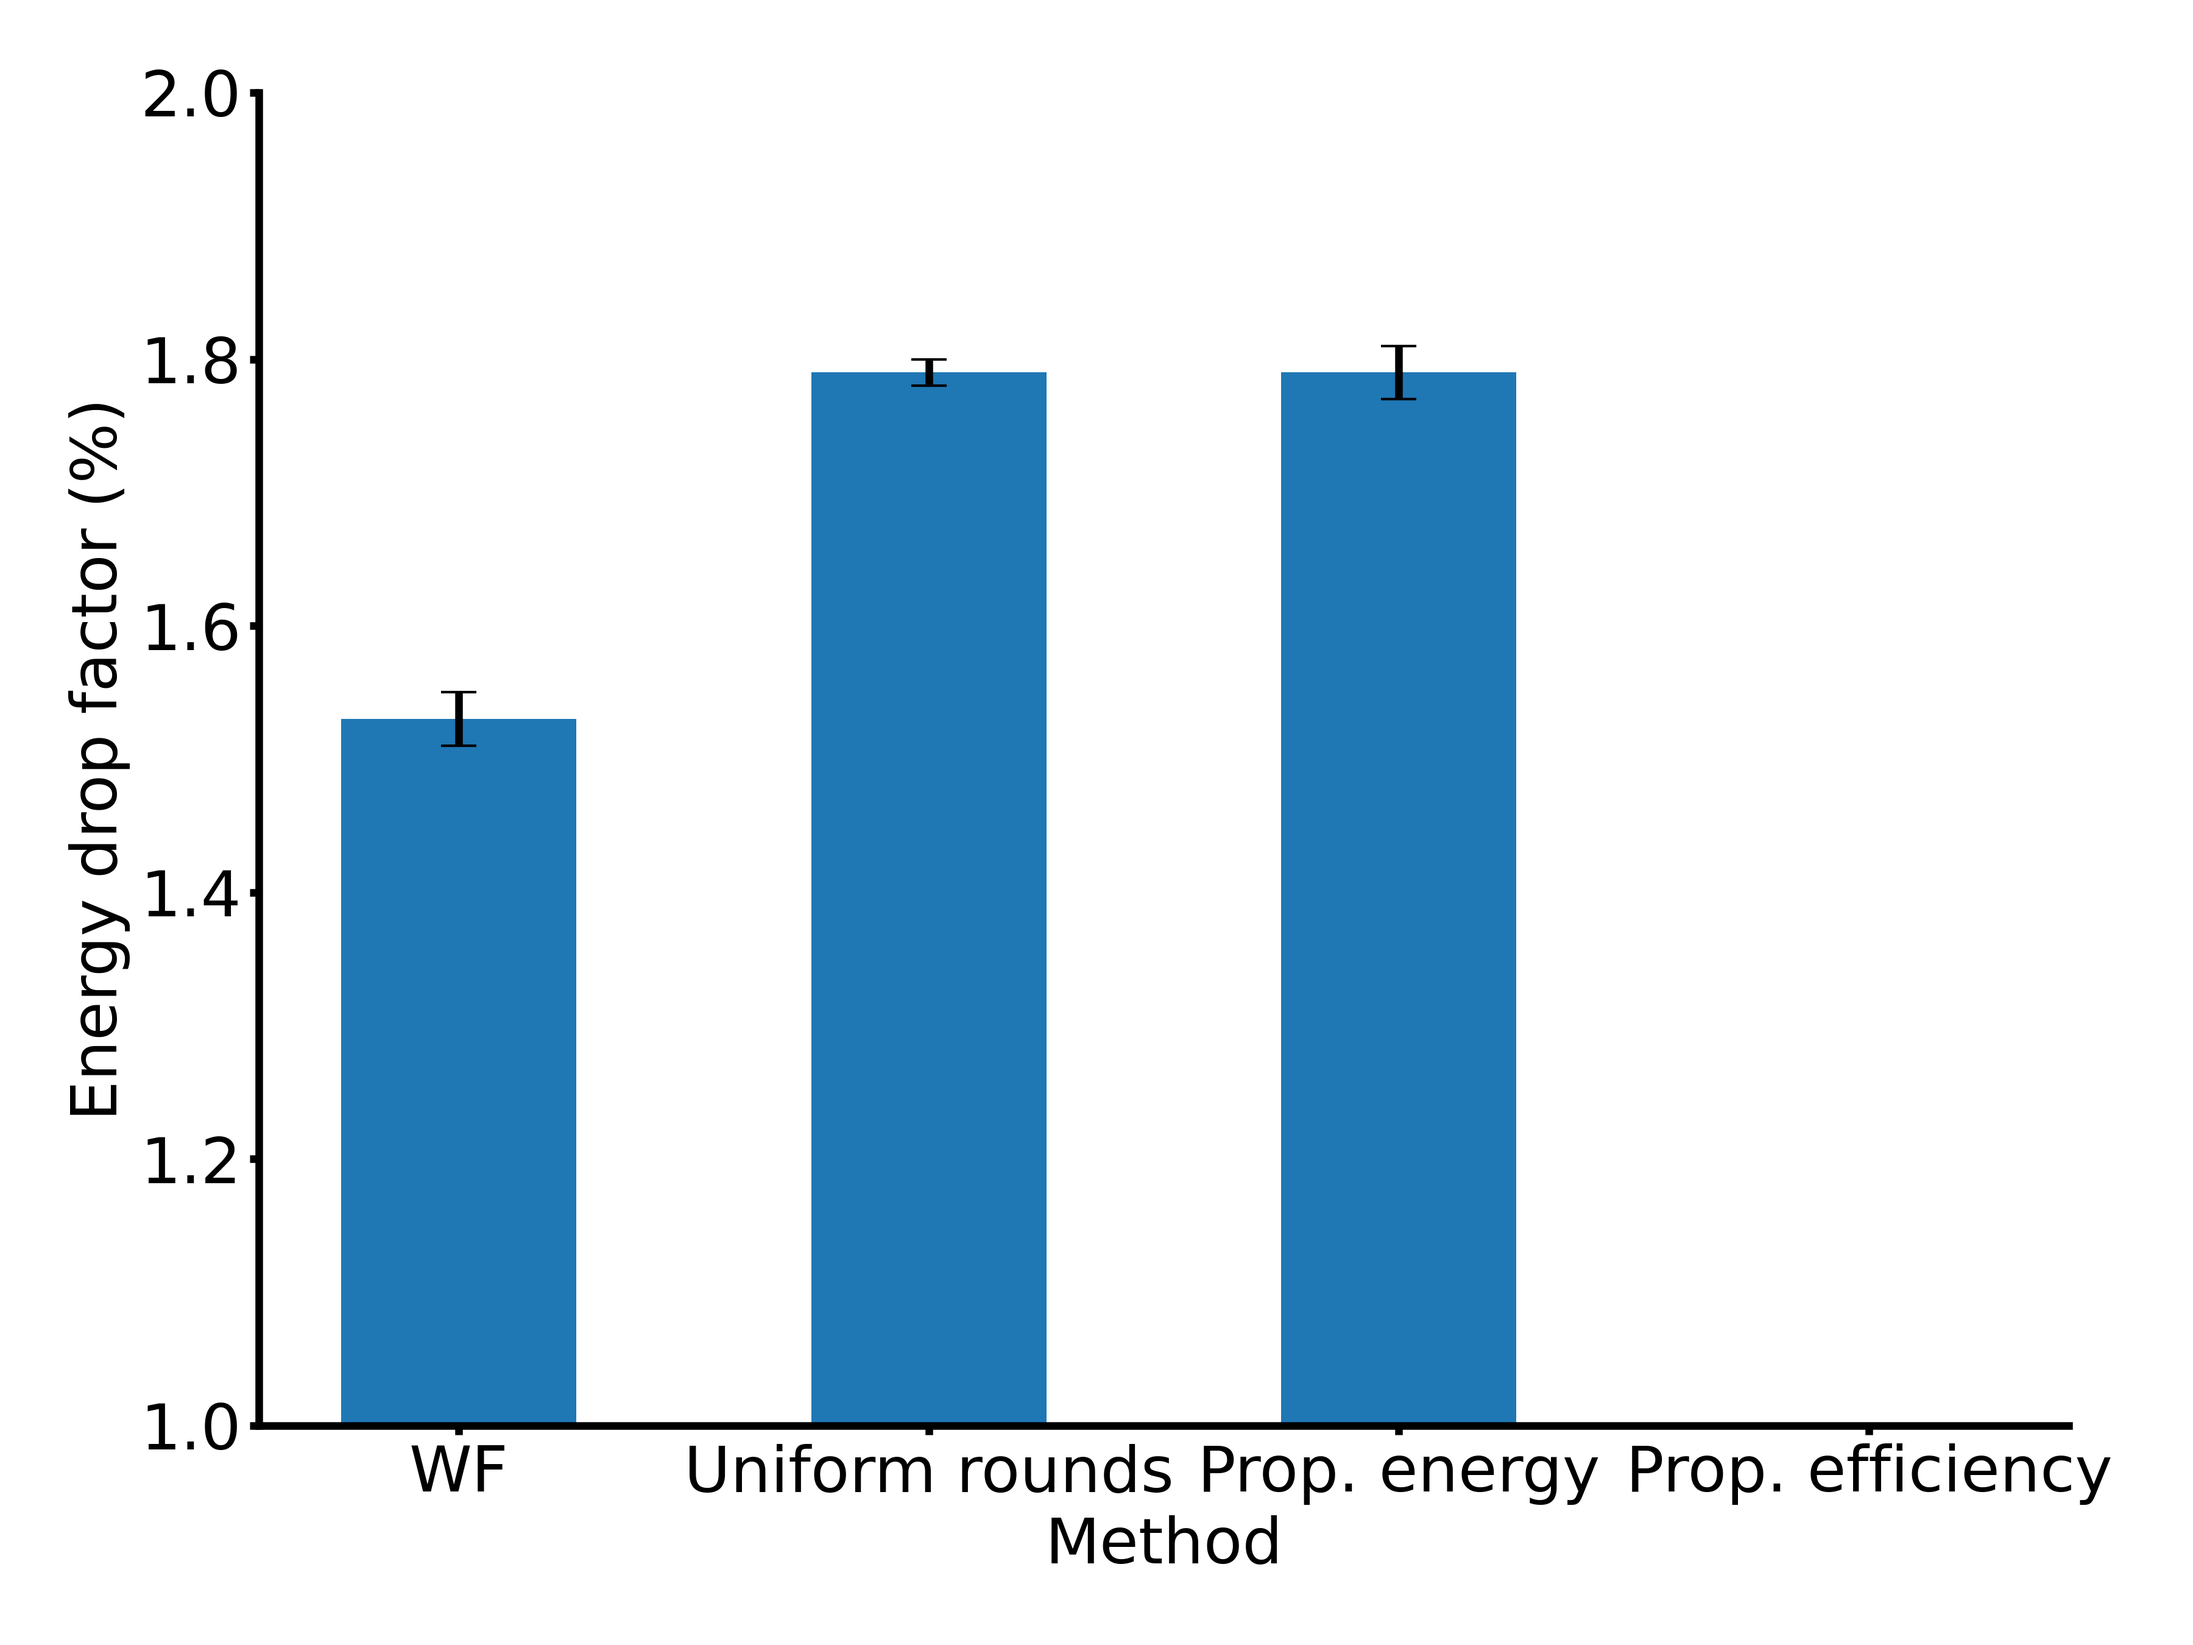
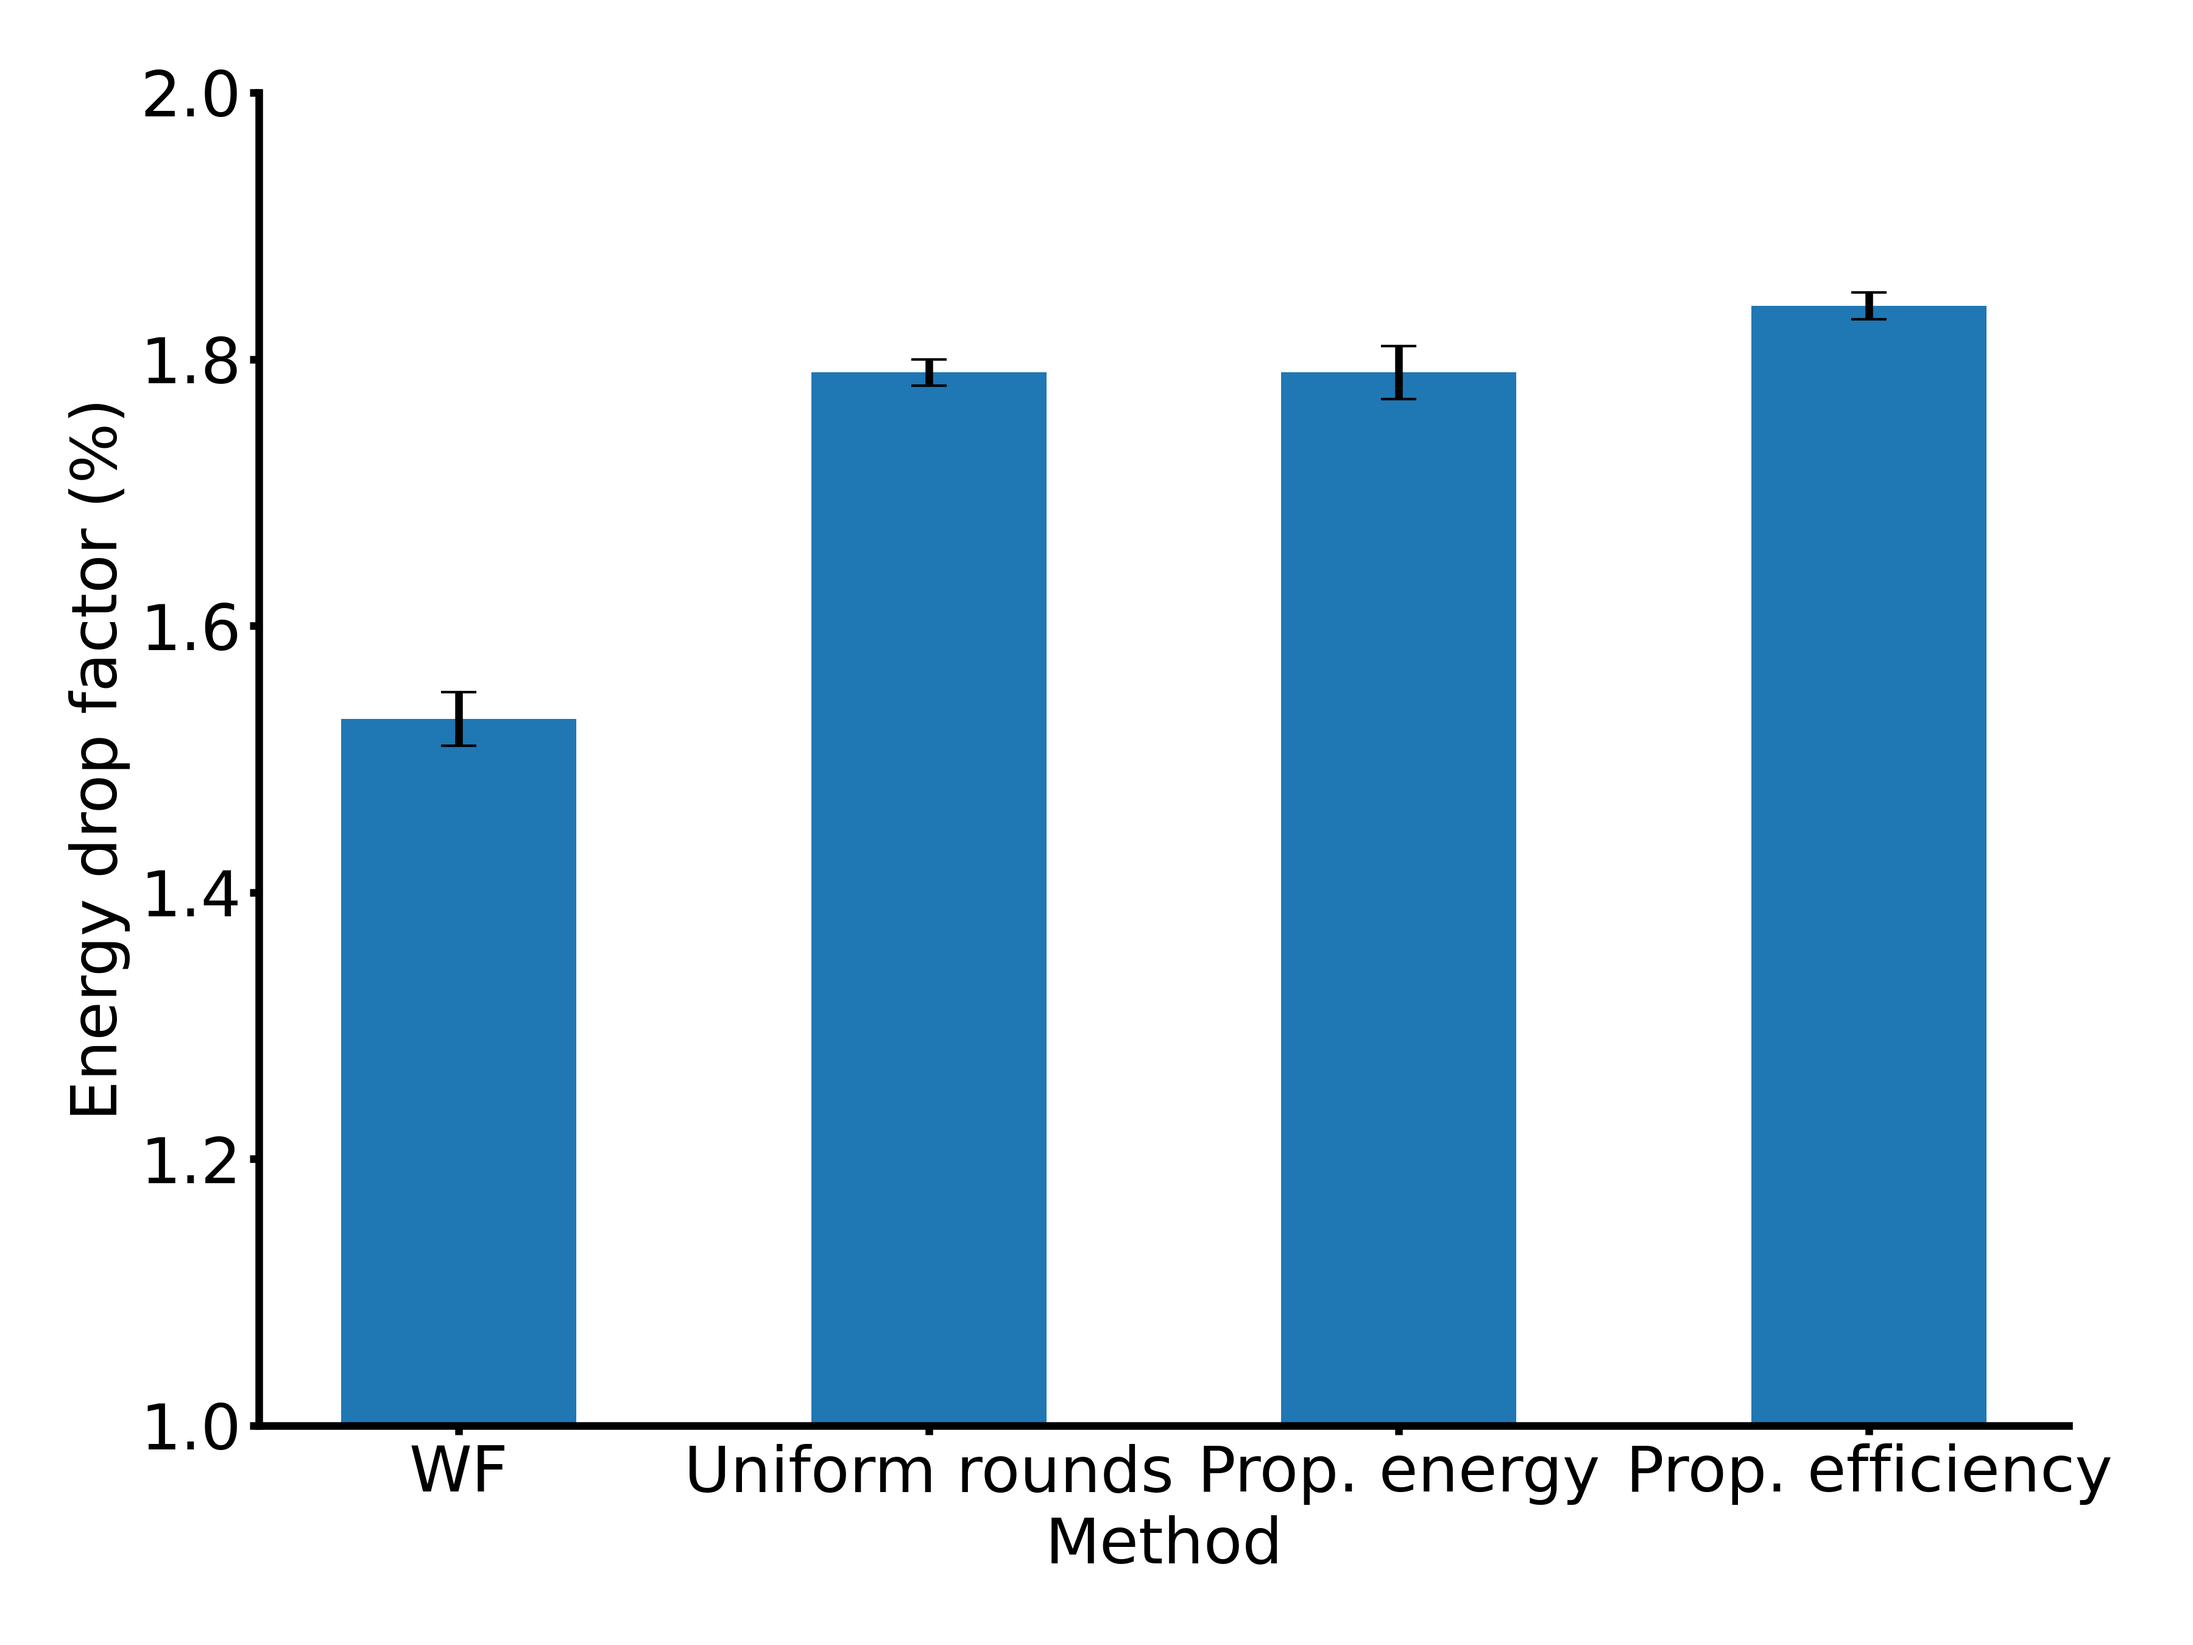
Proxy device efficiency

Changed region(s): [[0.7778, 0.1867, 0.9333, 0.8711]]

diff --git a/random_problems.py b/random_problems.py
@@ -128,6 +128,42 @@ def run_proportional_energy(clients_for_each_run, min_epochs, max_time):
     print(f"Gap = {np.mean(gaps)} +- {stats.sem(gaps) * stats.t.ppf((1+0.95)/2., len(gaps)-1)}s")
     print(f"Energy std. dev. = {np.mean(energy_stdevs)} +- {stats.sem(energy_stdevs) * stats.t.ppf((1+0.95)/2., len(gaps)-1)}s")
 
+
+
+def run_proportional_efficiency(clients_for_each_run, min_epochs, max_time):
+    num_executions = len(clients_for_each_run)
+    durations = np.zeros(num_executions)
+    energies = np.zeros(num_executions)
+    final_to_initial_energies = np.zeros(num_executions)
+    utilities = np.zeros(num_executions)
+    gaps = np.zeros(num_executions)
+    times = np.zeros(num_executions)
+    energy_stdevs = np.zeros(num_executions)
+
+    for i, clients in enumerate(clients_for_each_run):
+
+        p = ProportionalEfficiencySolver(clients, min_epochs, max_time, is_log_active=log)
+        p.solve()
+
+        durations[i] = p.elapsed_time
+        energies[i] = p.energy/num_clients
+        final_to_initial_energies[i] = 1-p.energy/p.initial_energy
+        utilities[i] = p.log_energy
+        gaps[i] = p.gap
+        times[i] = p.time
+        energy_stdevs[i] = p.stdev
+
+    print(f"-----------------------------")
+    print(f"Proportional to device efficiency")
+    print(f"Execution time = {np.mean(durations)} +- {stats.sem(durations) * stats.t.ppf((1+0.95)/2., len(durations)-1)}s")
+    print(f"Round time = {np.mean(times)} +- {stats.sem(times) * stats.t.ppf((1+0.95)/2., len(times)-1)}s")
+    print(f"Energy = {np.mean(energies)} +- {stats.sem(energies) * stats.t.ppf((1+0.95)/2., len(energies)-1)}s")
+    print(f"Energy drop factor = {np.mean(final_to_initial_energies)} +- {stats.sem(final_to_initial_energies) * stats.t.ppf((1+0.95)/2., len(energies)-1)}s")
+    print(f"Utility = {np.mean(utilities)} +- {stats.sem(utilities) * stats.t.ppf((1+0.95)/2., len(utilities)-1)}s")
+    print(f"Gap = {np.mean(gaps)} +- {stats.sem(gaps) * stats.t.ppf((1+0.95)/2., len(gaps)-1)}s")
+    print(f"Energy std. dev. = {np.mean(energy_stdevs)} +- {stats.sem(energy_stdevs) * stats.t.ppf((1+0.95)/2., len(gaps)-1)}s")
+
+
 if __name__ == "__main__":
     num_clients = int(sys.argv[1]) 
     if len(sys.argv) > 2:
@@ -146,3 +182,5 @@ if __name__ == "__main__":
     run_uniform(clients_for_each_run.copy(), min_epochs, max_time)
 
     run_proportional_energy(clients_for_each_run.copy(), min_epochs, max_time)
+
+    run_proportional_efficiency(clients_for_each_run.copy(), min_epochs, max_time)

diff --git a/plots/plot_drop_factor.py b/plots/plot_drop_factor.py
@@ -5,8 +5,8 @@ import numpy as np
 plt.style.use('~/guiaraujo.mplstyle')
 
 solvers = ["WF","Uniform rounds","Prop. energy","Prop. efficiency"]
-drop_factor_10_to_40 = [1.53, 1.79, 1.79, 0]
-drop_factor_10_to_40_err = [0.02, 0.01, 0.02, 0]
+drop_factor_10_to_40 = [1.53, 1.79, 1.79, 1.84]
+drop_factor_10_to_40_err = [0.02, 0.01, 0.02, 0.01]
 
 x = np.arange(len(solvers))
 

diff --git a/plots/plot_energy_stdev.py b/plots/plot_energy_stdev.py
@@ -5,8 +5,8 @@ import numpy as np
 plt.style.use('~/guiaraujo.mplstyle')
 
 solvers = ["WF","Uniform rounds","Prop. energy","Prop. efficiency"]
-stdev_soc_10_to_40 = [6385,6751,8225, 0]
-stdev_soc_10_to_40_err = [67, 66, 79, 0]
+stdev_soc_10_to_40 = [6385,6751,8225, 6788]
+stdev_soc_10_to_40_err = [67, 66, 79, 65]
 
 x = np.arange(len(solvers))
 

diff --git a/plots/plot_round_time.py b/plots/plot_round_time.py
@@ -5,8 +5,8 @@ import numpy as np
 plt.style.use('~/guiaraujo.mplstyle')
 
 solvers = ["WF","Uniform rounds","Prop. energy","Prop. efficiency"]
-times_10_to_40 = [23.6, 12.91, 26.1, 0]
-times_10_to_40_err = [0.1, 0.04, 0.3, 0]
+times_10_to_40 = [23.6, 12.91, 26.1, 15.5]
+times_10_to_40_err = [0.1, 0.04, 0.3, 0.1]
 
 x = np.arange(len(solvers))
 

diff --git a/plots/plot_solver_time.py b/plots/plot_solver_time.py
@@ -5,8 +5,8 @@ import numpy as np
 plt.style.use('~/guiaraujo.mplstyle')
 
 solvers = ["WF","Uniform rounds","Prop. energy","Prop. efficiency"]
-times_soc_10_to_40 = [1565, 87, 102, 0]
-times_soc_10_to_40_err = [30, 1, 1, 0]
+times_soc_10_to_40 = [1565, 87, 102, 114]
+times_soc_10_to_40_err = [30, 1, 1, 1.5]
 
 x = np.arange(len(solvers))
 

diff --git a/proxy_solvers.py b/proxy_solvers.py
@@ -129,7 +129,6 @@ class ProportionalEfficiencySolver(Solver):
         total_inverse_round_power = 0
         for c in self.clients_list:
             round_consumption = c.P_down_avg - c.Pi + c.epsilon_i/c.tau_i 
-            print(c.epsilon_i)
             total_inverse_round_power +=  1/round_consumption
 
         r_list = []
